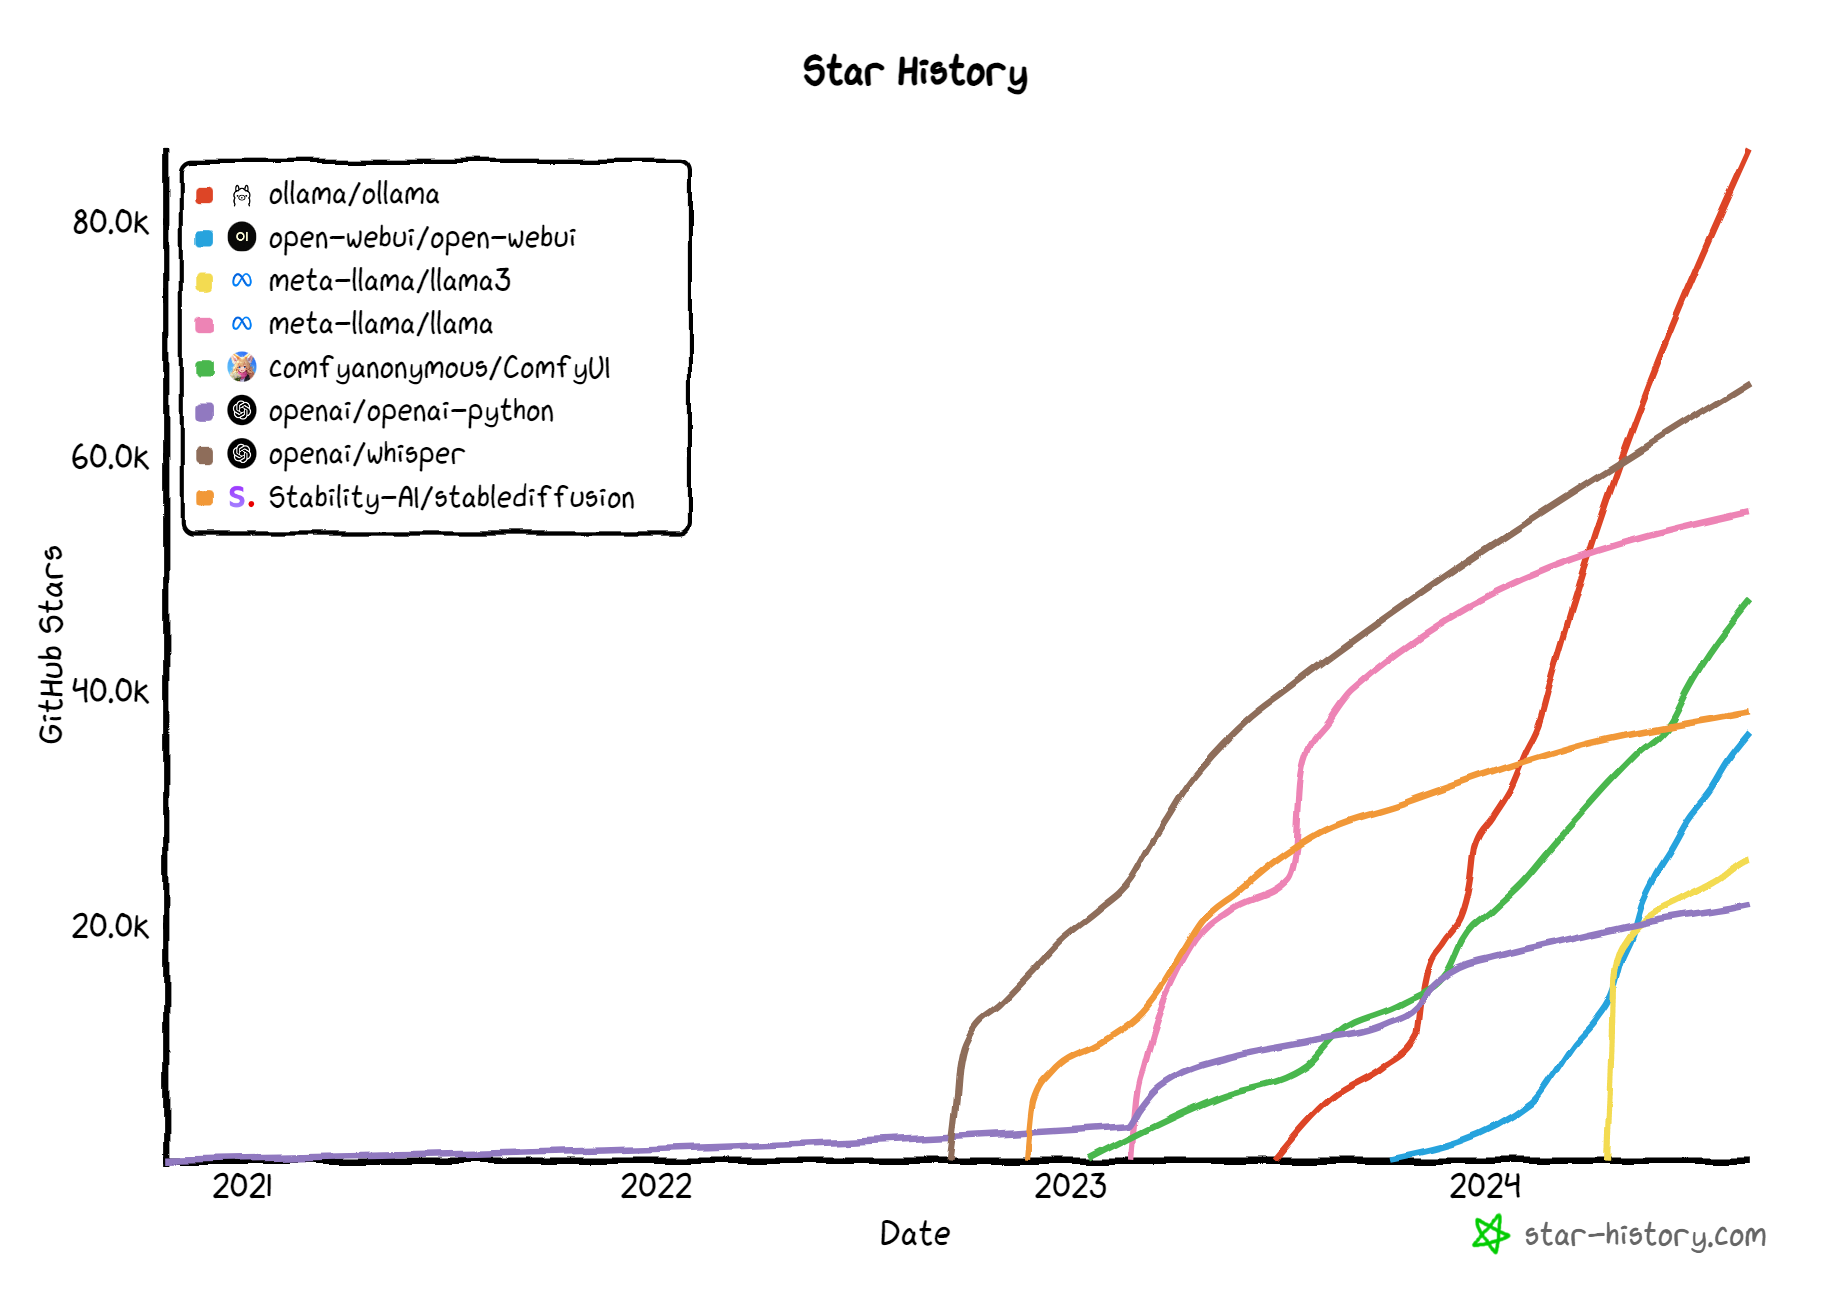
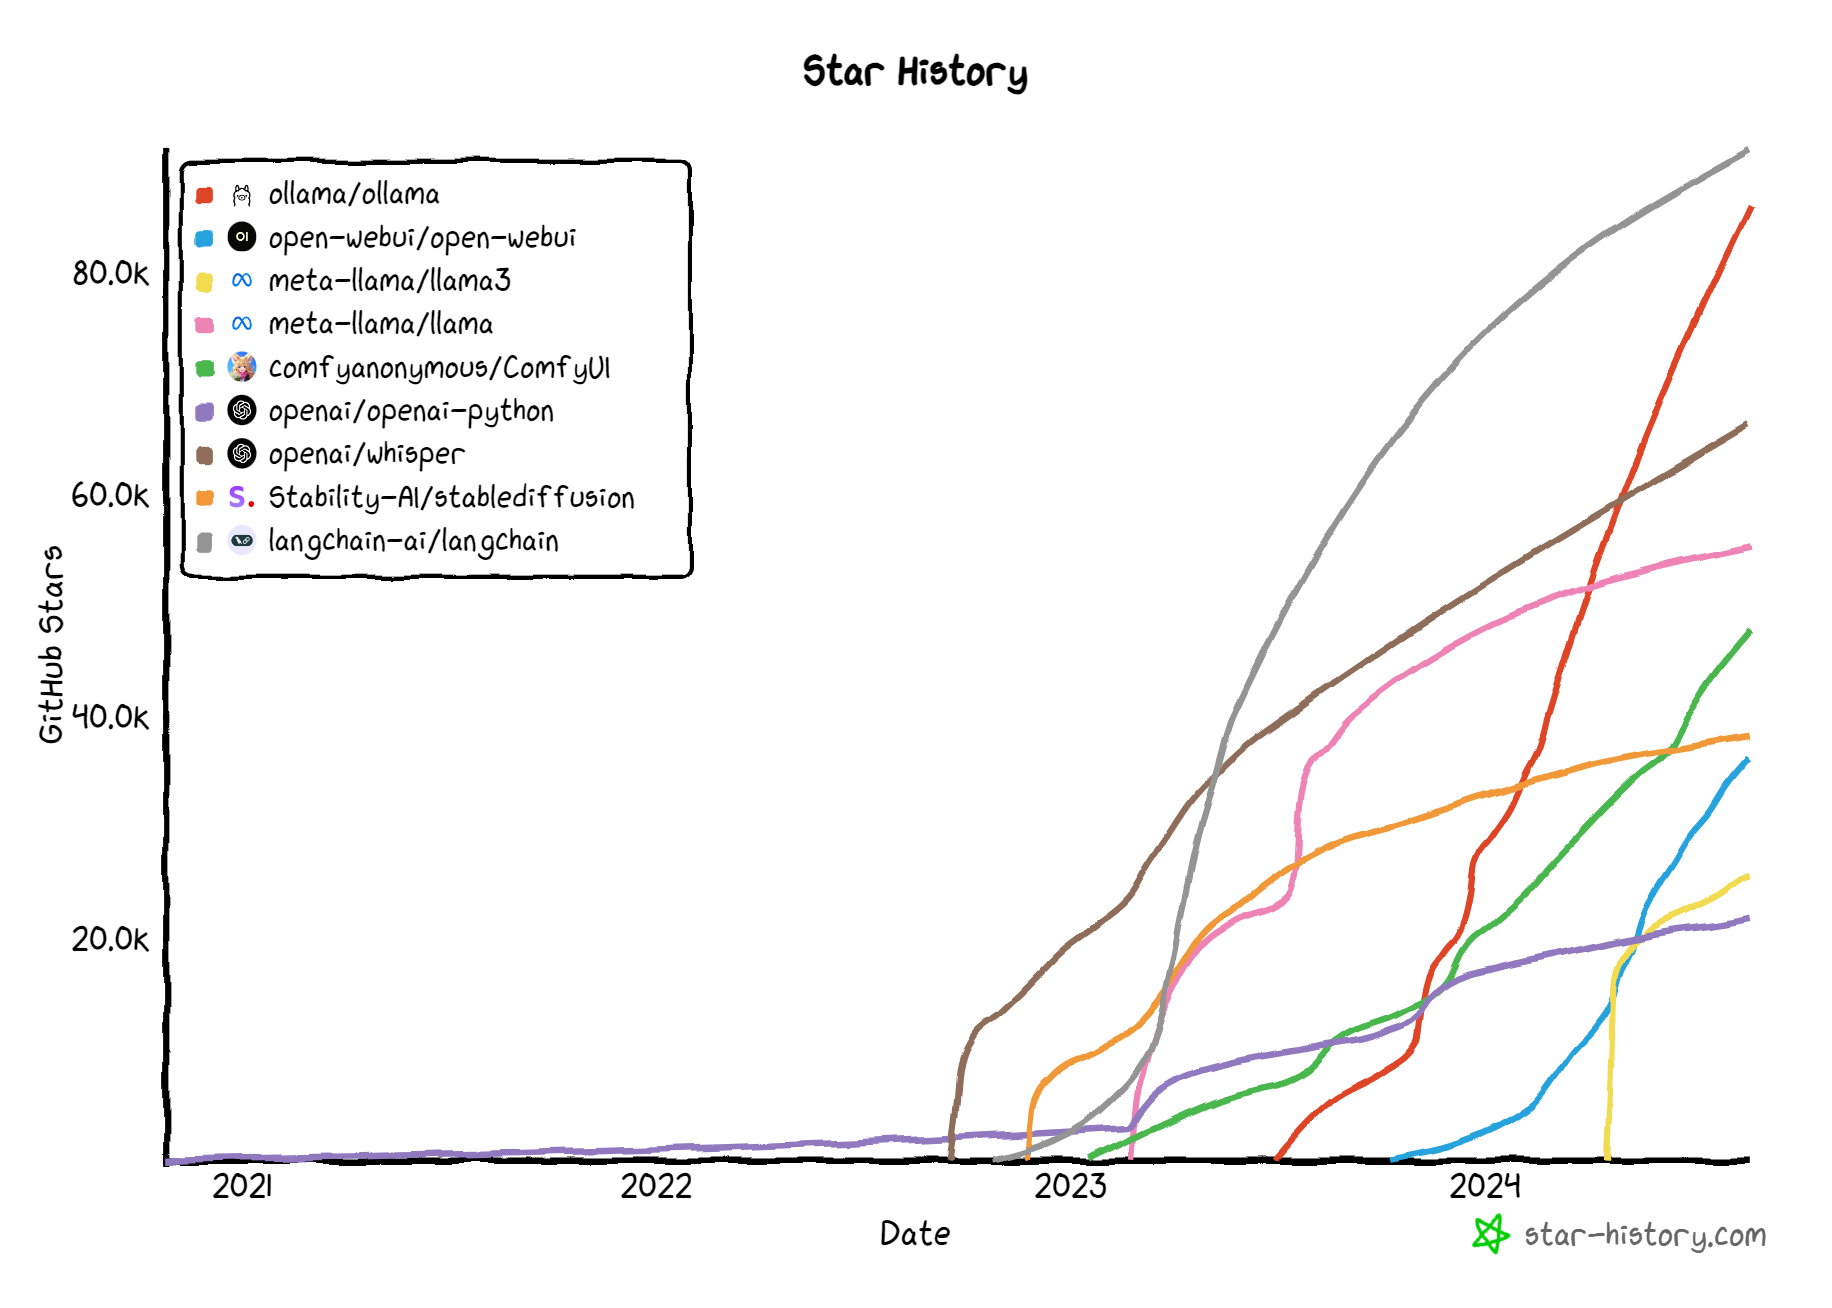
adding langchain

diff --git a/_posts/2024-8-20-open-vs-private.md b/_posts/2024-8-20-open-vs-private.md
@@ -12,7 +12,7 @@ In the rapidly evolving landscape of artificial intelligence, a fascinating tren
 ![Open-source and proprietary AI models](/images/open_source_vs_private_llm_20240418.png "The race for AI")
 
 
-![Open-source wins](/images/star-history-2024821_opensource_repo.png "Open wins")
+![Open-source wins - Ollama and langchain - Top 80 world](/images/star-history-2024821_opensource_repo.png "Open wins")
 
 In the rapidly evolving landscape of artificial intelligence, a fascinating trend has emerged. As illustrated in the graph above, companies developing proprietary AI models are finding themselves in a constant sprint to keep pace with the rapid advancements in open-source alternatives. This competitive pressure is driving an unprecedented acceleration in AI innovation across the board.
 
